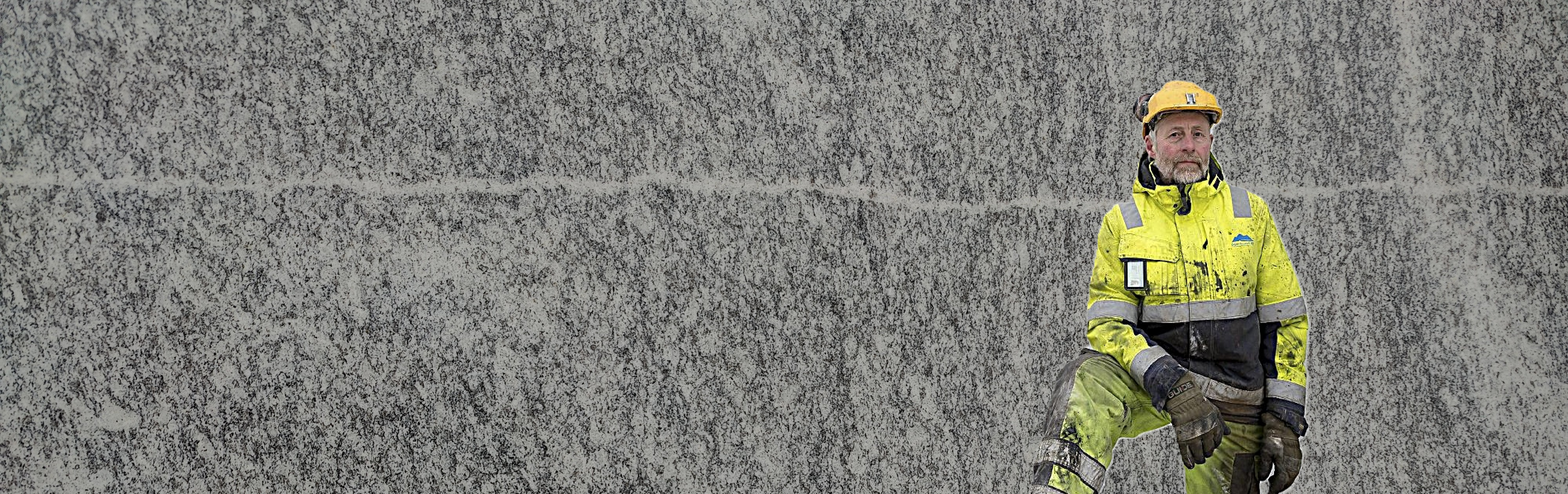
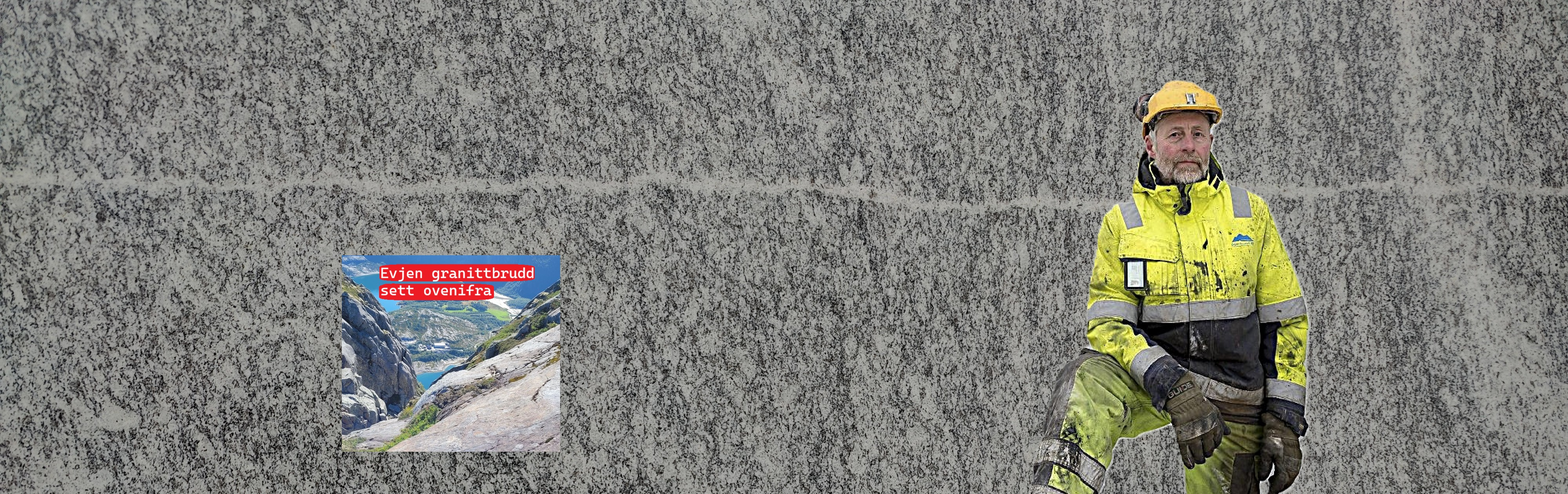
Add files via upload

Changed region(s): [[0.2188, 0.4945, 0.375, 0.9271]]

diff --git a/css/main.css b/css/main.css
@@ -309,3 +309,8 @@ nav {
 .bg-granitt12 {
     background-image: url(../Privatbruk\ bilder/privatbruk17.jpg);  /* eller full URL */
 }
+
+.googlemaps {
+    width: 1700px;
+    height: 450px;
+}
